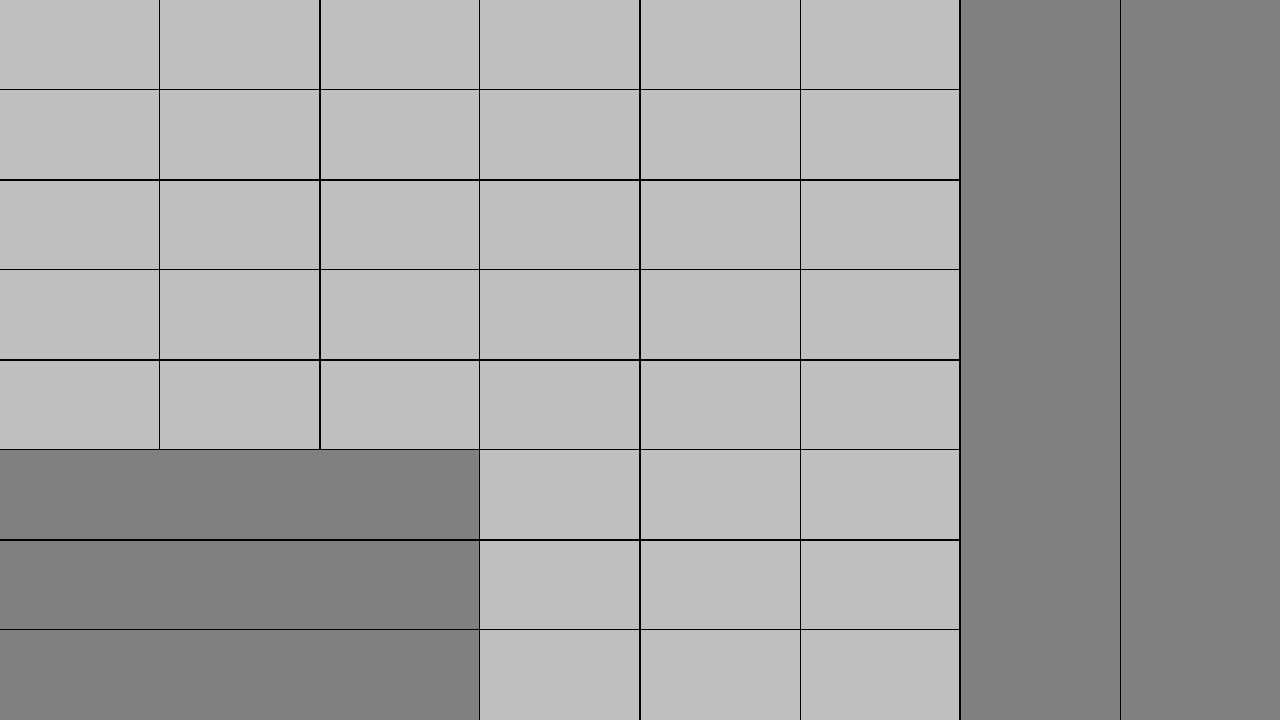
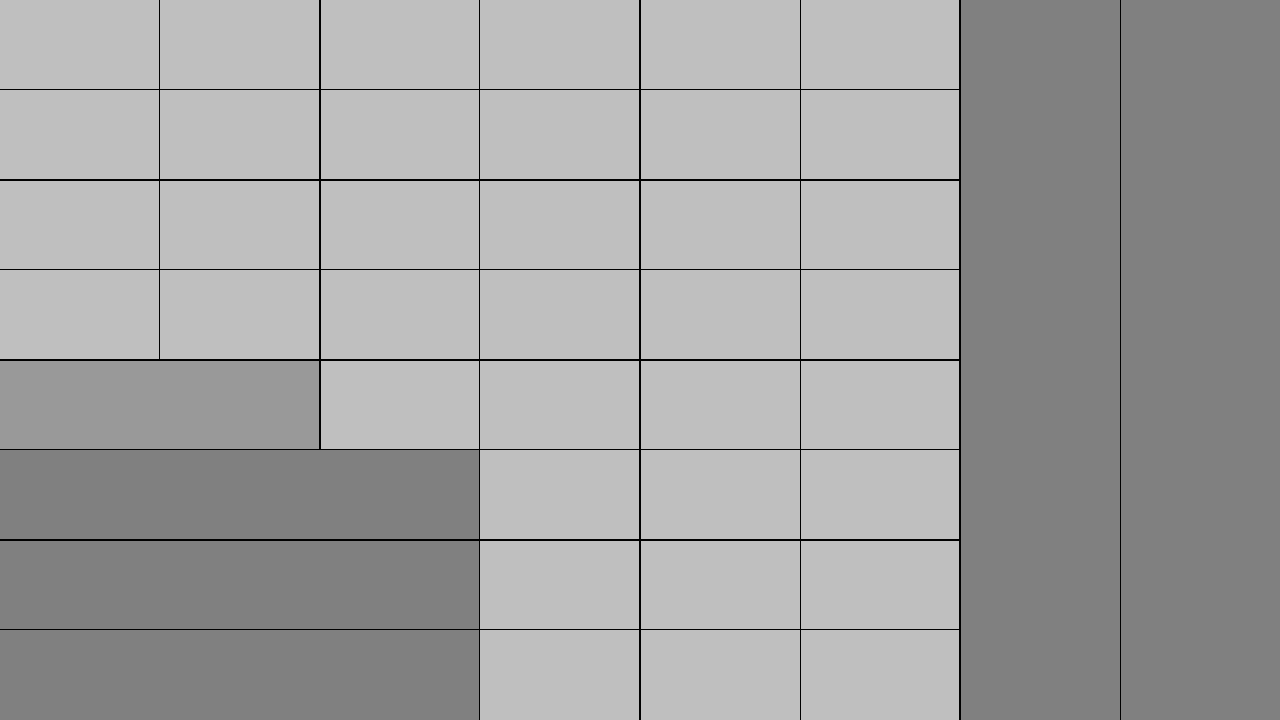
added functioning links for discord and github

Changed region(s): [[0.0, 0.4889, 0.25, 0.6417]]

diff --git a/data/constants.py b/data/constants.py
@@ -82,8 +82,8 @@ POPUP_OFFSET_STEP = 30
 # --- Dynamic Menu Text & Links ---
 # The first item will be placed at the bottom, and subsequent items will stack upwards.
 MENU_BOTTOM_TEXTS = [
-    {"main_text": "Discord - ", "link_text": "link", "url": "https://discord.com/"},
-    {"main_text": "Github - ", "link_text": "link", "url": "https://github.com/"}
+    {"main_text": "Discord - ", "link_text": "https://discord.gg/f5Jugz9SKa", "url": "https://discord.gg/f5Jugz9SKa/"},
+    {"main_text": "Github - ", "link_text": "https://github.com/GitGetGot415/Greater-Diplomacy-5", "url": "https://github.com/GitGetGot415/Greater-Diplomacy-5/"}
 ]
 MENU_BOTTOM_TEXT_START_X = 20
 MENU_BOTTOM_TEXT_START_Y = SCREEN_HEIGHT - 40

diff --git a/context/context_generator.py b/context/context_generator.py
@@ -130,7 +130,8 @@ files_to_silently_ignore = [
     "**/.git/*",          # Hides git background files if you run this in a repo
     "**/.env",            # Prevents accidentally leaking your environment variables!
     "dist/**",
-    "build/**"
+    "build/**",
+    "**/__init__.py"
 ]
 
 combine_files(

diff --git a/ui/buttons.py b/ui/buttons.py
@@ -479,7 +479,7 @@ def render_settings_buttons(settings_screen):
 
     # Render above the player count
     thread_val = (settings_screen.ai_threads - 1) / 7.0
-    settings_screen.ai_thread_slider = Slider(keybind_x, 340, 200, f"Maximum AI Threads: {settings_screen.ai_threads}", thread_val, settings_screen.set_ai_threads)
+    settings_screen.ai_thread_slider = Slider(60, 400, 200, f"Maximum AI Threads: {settings_screen.ai_threads}", thread_val, settings_screen.set_ai_threads)
     
     # Only show the slider if an AI mode is active
     settings_screen.ai_thread_slider.visible = (settings_screen.ai_mode != "OFF")